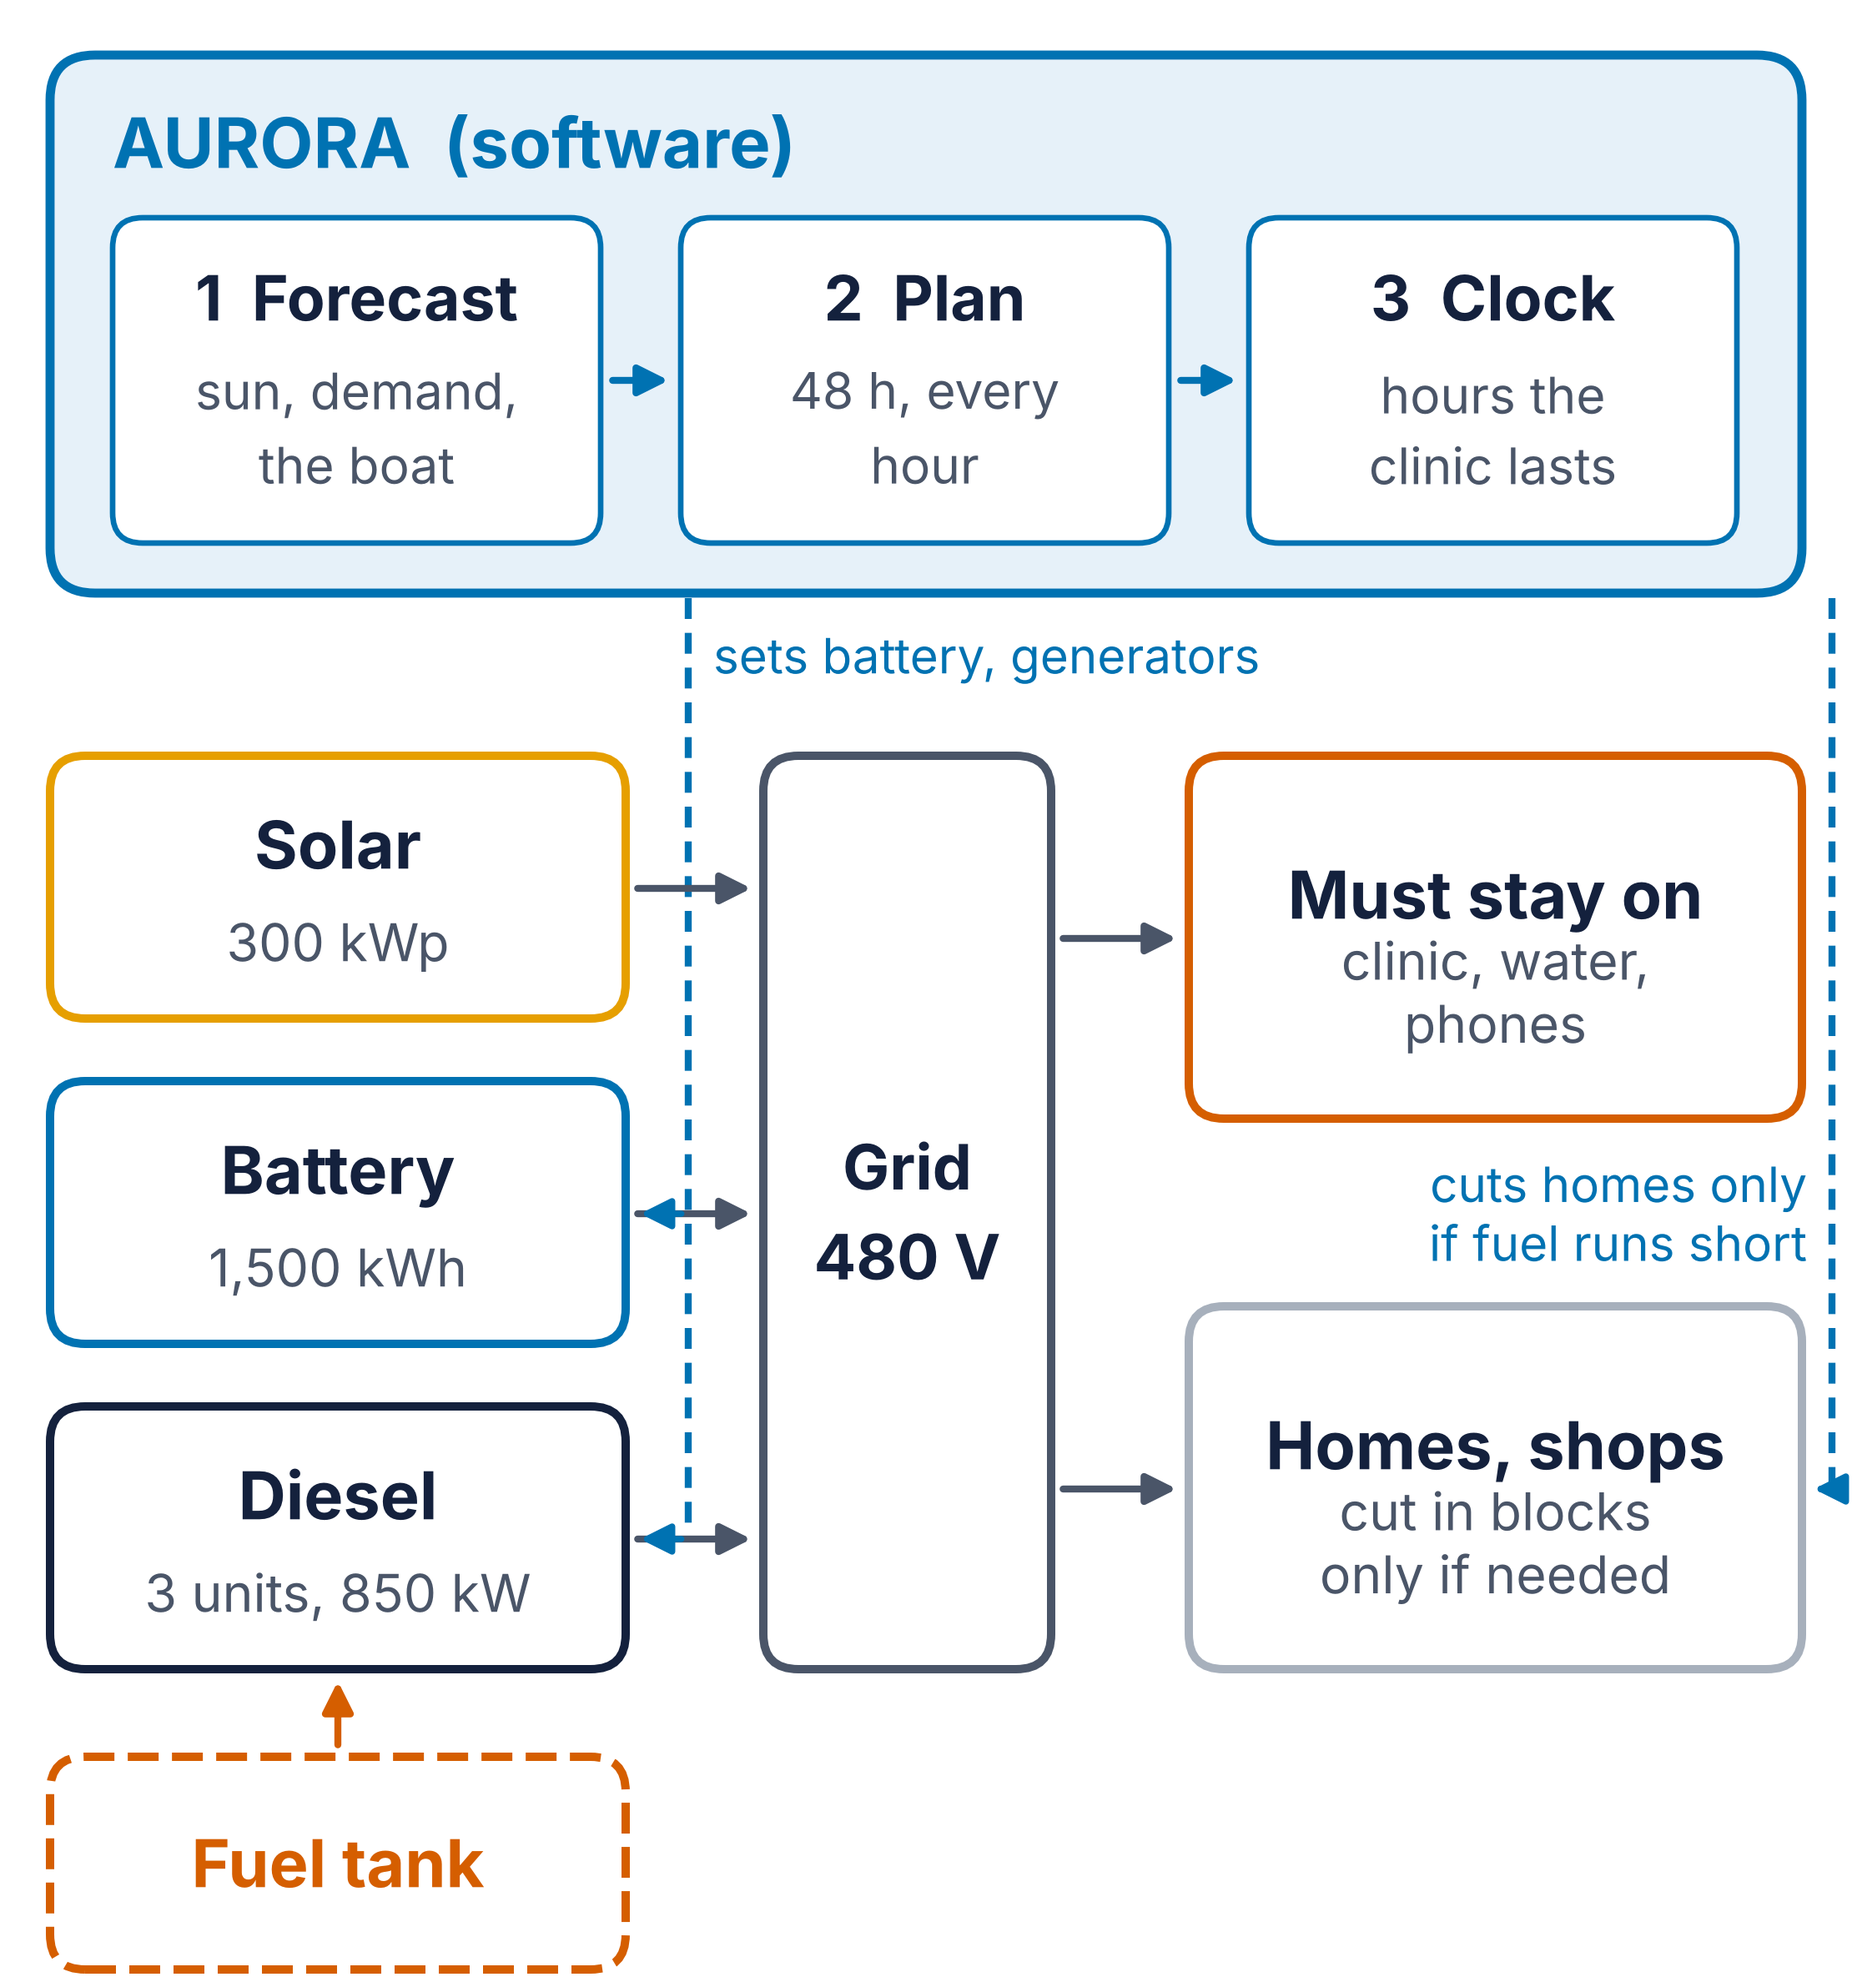
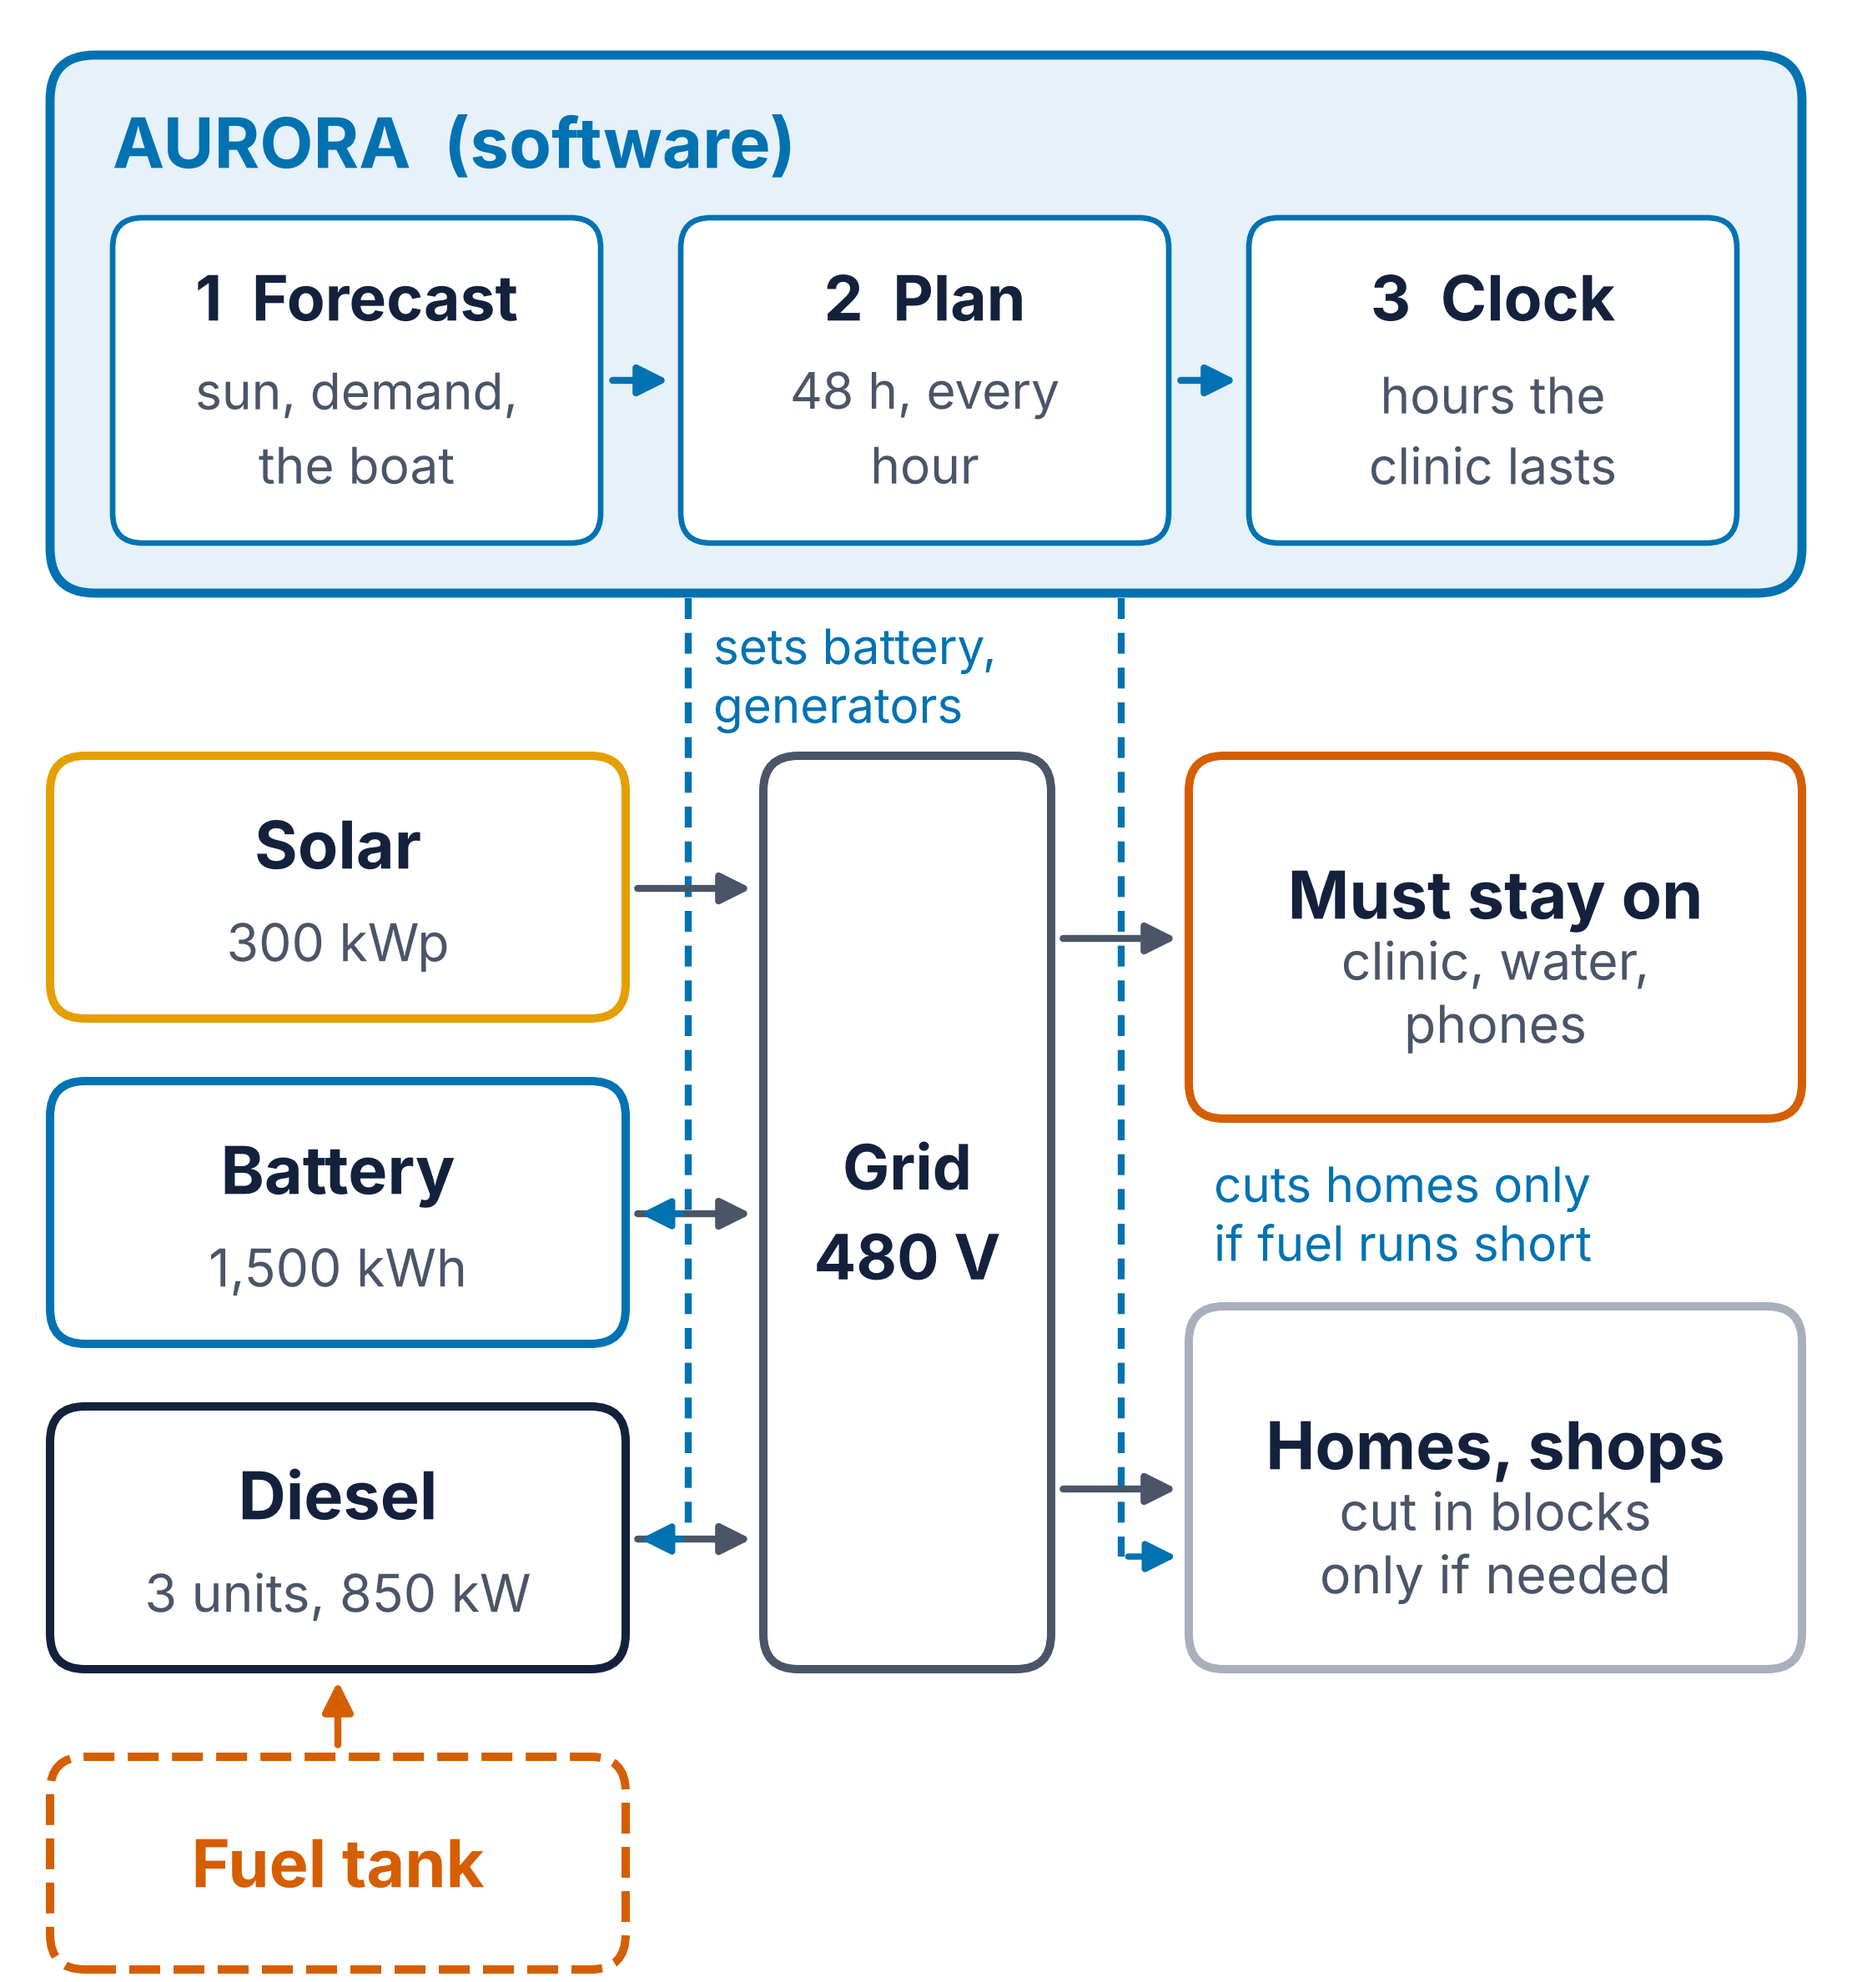
System diagram: move the home-cut control line inside the figure (arrow was clipped at the border)

diff --git a/aurora/plotting/slides.py b/aurora/plotting/slides.py
@@ -399,10 +399,10 @@ def system_diagram(size=(740, 792)):
     ax.plot([2.75, 2.75], [5.53, 1.77], color=BLUE, lw=2, ls=(0, (3, 2)))
     for yy in (3.07, 1.77):
         arrow((2.75, yy + 0.0), (2.53, yy), c=BLUE, lw=1.8)
-    ax.plot([7.32, 7.32], [5.53, 1.97], color=BLUE, lw=2, ls=(0, (3, 2)))
-    arrow((7.33, 1.97), (7.22, 1.97), c=BLUE, lw=1.8)
-    _halo(ax.text(2.85, 5.3, "sets battery, generators", fontsize=14, color=BLUE, va="center"))
-    _halo(ax.text(7.22, 3.07, "cuts homes only\nif fuel runs short", fontsize=14, color=BLUE, va="center", ha="right"))
+    ax.plot([4.48, 4.48], [5.53, 1.70], color=BLUE, lw=2, ls=(0, (3, 2)))
+    arrow((4.48, 1.70), (4.73, 1.70), c=BLUE, lw=1.8)
+    _halo(ax.text(2.85, 5.22, "sets battery,\ngenerators", fontsize=14, color=BLUE, va="center"))
+    _halo(ax.text(4.85, 3.07, "cuts homes only\nif fuel runs short", fontsize=14, color=BLUE, va="center", ha="left"))
     _save(fig, "system_diagram")
 
 
